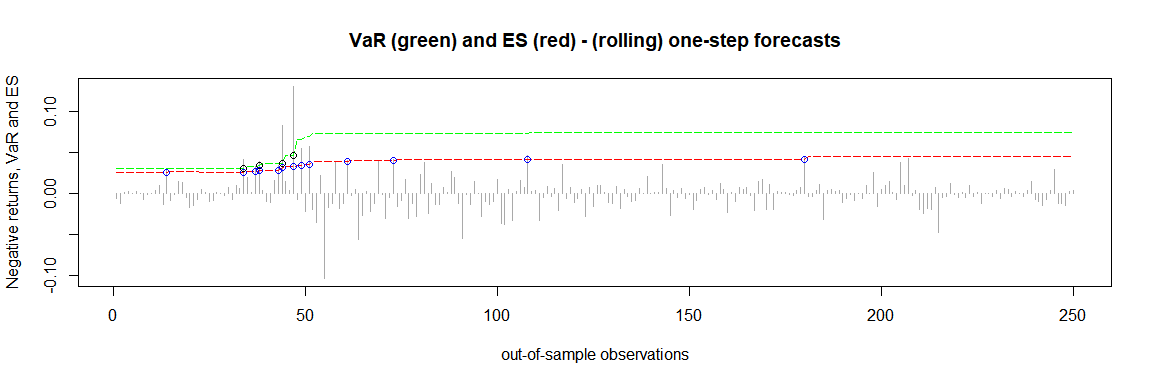
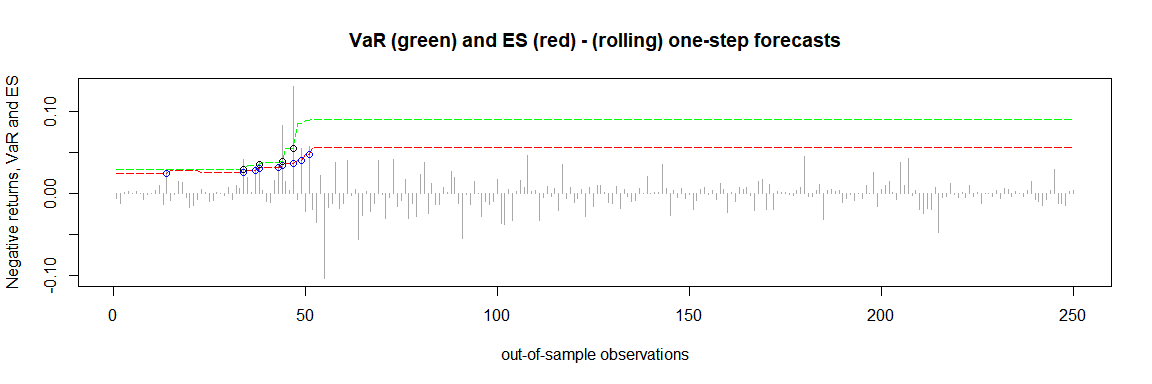
corrected README

Changed region(s): [[0.0938, 0.375, 0.3125, 0.4688], [0.4375, 0.4062, 0.4688, 0.4375]]

diff --git a/README.md b/README.md
@@ -27,7 +27,7 @@ install.packages("quarks")
 
 This is a basic example which shows you how to solve a common problem.
 The data `DAX30` in this package contains daily financial data of the
-DAX from 2000 to December 2019 (currency in EUR). In the following
+DAX from 2000 to December 2020 (currency in EUR). In the following
 examples the (out-of-sample) one-step forecasts of the 99%-VaR (red
 line) and the corresponding ES (green line) are computed. Exceedances
 are indicated by the colored circles.
@@ -43,7 +43,7 @@ returns <- diff(log(prices))
 
 ### Example 1 - plain historical simulation 
 results1 <- rollcast(x = returns, p = 0.99, method = 'plain', nout = 250,
-                     nwin = 500)
+                     nwin = 250)
 plot(results1)
 ```
 
@@ -52,7 +52,7 @@ plot(results1)
 ``` r
 ### Example 2 - age weighted historical simulation 
 results2 <- rollcast(x = returns, p = 0.99, method = 'age', nout = 250,
-                     nwin = 500)
+                     nwin = 250)
 plot(results2)
 ```
 
@@ -61,7 +61,7 @@ plot(results2)
 ``` r
 ### Example 3 - volatility weighted historical simulation 
 results3 <- rollcast(x = returns, p = 0.99, method = 'vwhs', nout = 250,
-                     nwin = 500)
+                     nwin = 250)
 plot(results3)
 ```
 
